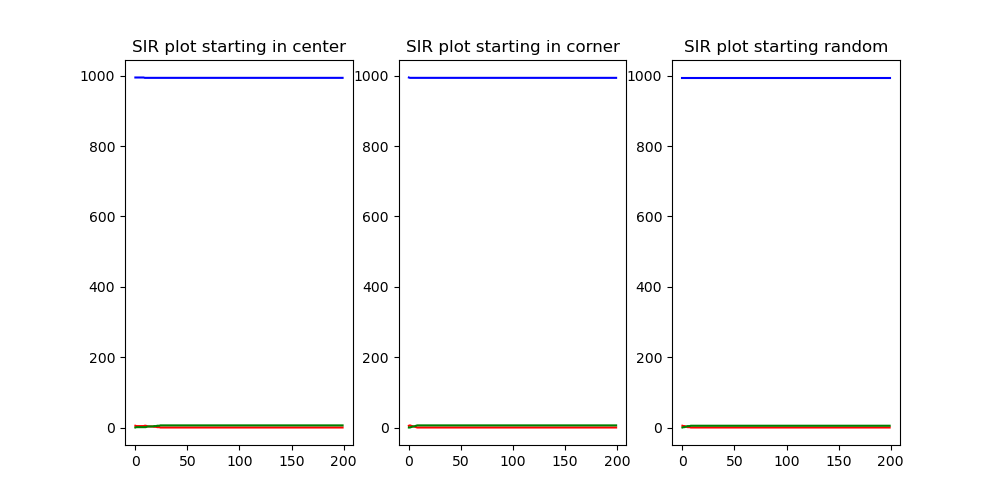
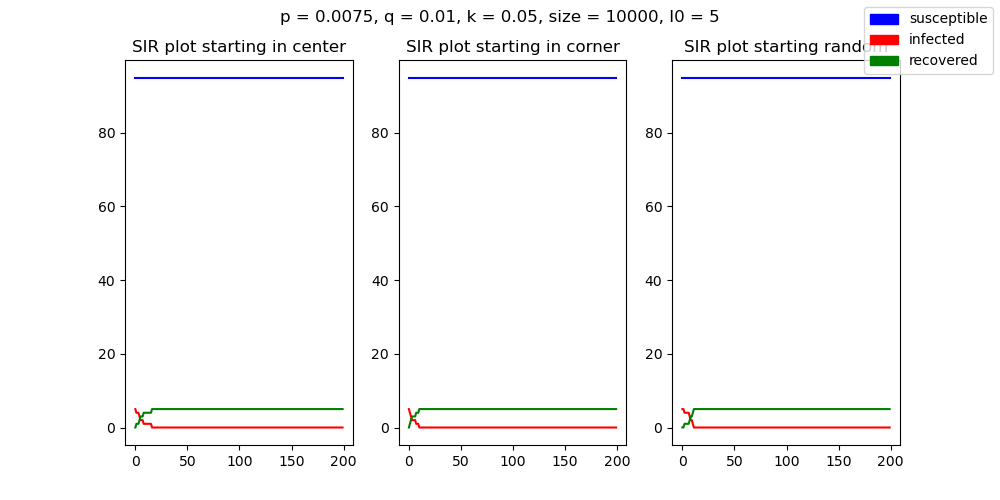
fixes

diff --git a/Scripts/smart_agent_sim.py b/Scripts/smart_agent_sim.py
@@ -5,6 +5,7 @@ import numpy as np
 sys.path.append("../")  # lets us access sibling directory `sir`
 from sir.smartagent import *
 import matplotlib.pyplot as plt
+import matplotlib.patches as mpatches
 # fmt: on
 
 
@@ -85,19 +86,23 @@ for t in [0, 66, 133, 199]:
         plt.scatter(x, y, c=color, alpha=0.5, edgecolors="none")
         plt.title("state at t = {}".format(t + 1))
     count = count + 1
-print(X[0])
+blue_patch = mpatches.Patch(color="blue", label="susceptible")
+red_patch = mpatches.Patch(color="red", label="infected")
+green_patch = mpatches.Patch(color="green", label="recovered")
+figfull.legend(handles=[blue_patch, red_patch, green_patch])
+figfull.suptitle("p = 0.01, q = 0.01, k = 0.05, size = 10000, I0 = 5, no learning")
 plt.savefig("../doc/final/plots/nolearn.png")
-
+print(X[0])
 
 P = 0.01
 Q = 0.01
 K = 0.05
 Size = 10000
 T = 200
-KT = 100
-FT = 100
-KD = 0.15
-FD = 0.15
+KT = 1000
+FT = 1000
+KD = 0.1
+FD = 0.1
 PI = 1
 II = 5
 
@@ -130,5 +135,12 @@ for t in [0, 66, 133, 199]:
         plt.scatter(x, y, c=color, alpha=0.5, edgecolors="none")
         plt.title("state at t = {}".format(t + 1))
     count = count + 1
-print(X[0])
+blue_patch = mpatches.Patch(color="blue", label="susceptible")
+red_patch = mpatches.Patch(color="red", label="infected")
+green_patch = mpatches.Patch(color="green", label="recoverd")
+figfull.legend(handles=[blue_patch, red_patch, green_patch])
+figfull.suptitle(
+    "p = 0.01, q = 0.01, k = 0.05, size = 10000, I0 = 5, kt = ft = 1000, kd = fd = 0.1"
+)
 plt.savefig("../doc/final/plots/yeslearn.png")
+print(X[0])

diff --git a/Scripts/sim_agent_q1.py b/Scripts/sim_agent_q1.py
@@ -5,6 +5,7 @@ import numpy as np
 sys.path.append("../")  # lets us access sibling directory `sir`
 from sir.smartagent import *
 import matplotlib.pyplot as plt
+import matplotlib.patches as mpatches
 # fmt: on
 
 
@@ -159,6 +160,11 @@ for p in P:
     plt.plot(X[0][:, 0], X[0][:, 3], "green")
     plt.title("SIR plot with p = {}".format(p))
     count = count + 1
+blue_patch = mpatches.Patch(color="blue", label="susceptible")
+red_patch = mpatches.Patch(color="red", label="infected")
+green_patch = mpatches.Patch(color="green", label="recovered")
+figfull.legend(handles=[blue_patch, red_patch, green_patch])
+figfull.suptitle("q = 0.01, k = 0.05, size = 10000, I0 = 5, start in center")
 plt.savefig("../doc/final/plots/startmid.png")
 
 P = 0.0075
@@ -231,4 +237,9 @@ plt.plot(X[0][:, 0], X[0][:, 2], "red")
 plt.plot(X[0][:, 0], X[0][:, 3], "green")
 plt.title("SIR plot starting random")
 
+blue_patch = mpatches.Patch(color="blue", label="susceptible")
+red_patch = mpatches.Patch(color="red", label="infected")
+green_patch = mpatches.Patch(color="green", label="recovered")
+figfull.legend(handles=[blue_patch, red_patch, green_patch])
+figfull.suptitle("p = 0.0075, q = 0.01, k = 0.05, size = 10000, I0 = 5")
 plt.savefig("../doc/final/plots/startdiff.png")

diff --git a/doc/final/final.md b/doc/final/final.md
@@ -59,13 +59,22 @@ These two models have the same parameters, yet the the ODE model seems to create
 
 # SIR model with spatial component
 
-For the discrete agent spatial model we 
+For the discrete agent spatial model we first need to understand how our choice of parameters effects the timeline of the virus. Unlike in the non-spatial model, the population size plays a huge role in the dynamics of the virus since we fix the world to a 1x1 square. Thus, the higher the population the more densely packed our agents are and this leads to the virus spreading more quickly even with a low value of `q`. Both `p` and `q` have positive relationships with the rate of spread, which makes sense. If individuals have a large radius of infection, then they infect more people per period, and if they move a large distance, then the chance that an infected person interacts with agents that they haven't interacted with before also increases. This leads to our first simulation in which we start with 5 infected agents at the center of the population and see how the virus spreads holding all constant between simulations but the distance that agents can move per period `p`.
 
 
 # Smart Agent extension
+
+Throughout history, we have faced various diseases and have found that social distancing and quarantines have been one of the best ways to combat the spread (Roos (2020)). So, we propose the question: How does the course of a disease spreading change if the agents make intelligent decisions to slow its spread? 
+
+We first observe a baseline simulation (with parameters p = 0.01, q = 0.01, k = 0.05, size = 10000) of a disease where agents do not do anything to slow the spread ():
+![image](plots/nolearn.png)
 
 # extension 2
 
 # extension 3
 
 # extension conclusions
+
+# Bibliography
+
+Roos, Dave. “Social Distancing and Quarantine Were Used in Medieval Times to Fight the Black Death.” History.com, A&amp;E Television Networks, 25 Mar. 2020, www.history.com/news/quarantine-black-death-medieval. 
